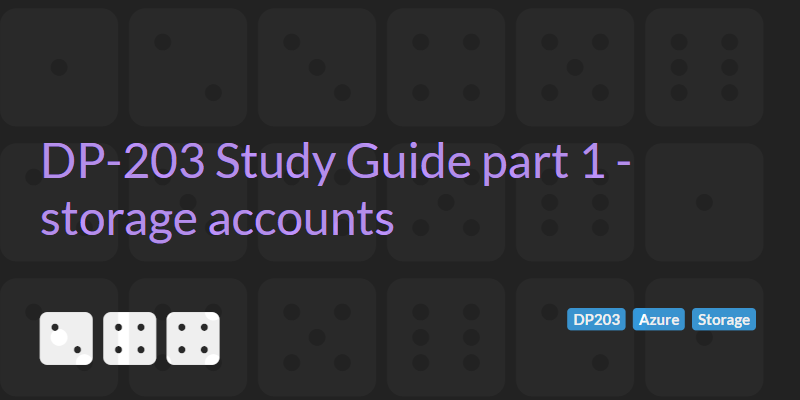
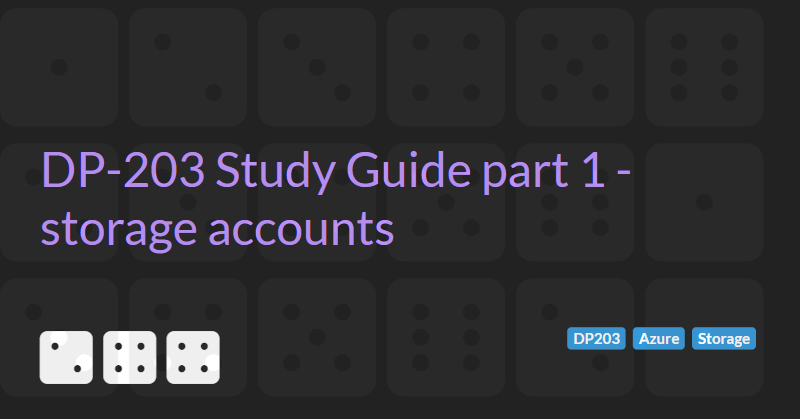
Set aspect ratio of hero images to 1.91:1. Fix links in list templates

diff --git a/Blog/all.html b/Blog/all.html
@@ -28,7 +28,7 @@
 
 <ul class="list-group list-group-flush">
     <li class="list-group-item">
-        <h4><a href=".//Azure/AZ-104-StudyNotes/Part6-VirtualMachines.html">AZ-105 Study Guide part 6 - Virtual Machines</a></h4>
+        <h4><a href="./Azure/AZ-104-StudyNotes/Part6-VirtualMachines.html">AZ-105 Study Guide part 6 - Virtual Machines</a></h4>
         <div>
             <span class="badge badge-info">AZ104</span>
             <span class="badge badge-info">Concepts</span>
@@ -40,7 +40,7 @@
             <p class="text-muted">Aug 17, 2022</p>
     </li>
     <li class="list-group-item">
-        <h4><a href=".//Azure/AZ-104-StudyNotes/Part5-StorageAccounts.html">AZ-104 Study Guide part 5 - Storage Accounts</a></h4>
+        <h4><a href="./Azure/AZ-104-StudyNotes/Part5-StorageAccounts.html">AZ-104 Study Guide part 5 - Storage Accounts</a></h4>
         <div>
             <span class="badge badge-info">AZ104</span>
             <span class="badge badge-info">Concepts</span>
@@ -52,7 +52,7 @@
             <p class="text-muted">Aug 10, 2022</p>
     </li>
     <li class="list-group-item">
-        <h4><a href=".//Azure/AZ-104-StudyNotes/Part1-Concepts.html">AZ-104 Study Guide part 1 - Concepts</a></h4>
+        <h4><a href="./Azure/AZ-104-StudyNotes/Part1-Concepts.html">AZ-104 Study Guide part 1 - Concepts</a></h4>
         <div>
             <span class="badge badge-info">AZ104</span>
             <span class="badge badge-info">Concepts</span>
@@ -63,7 +63,7 @@
             <p class="text-muted">Aug 09, 2022</p>
     </li>
     <li class="list-group-item">
-        <h4><a href=".//Azure/AZ-104-StudyNotes/Part2-PowershellAndCLI.html">AZ-104 Study Guide part 2 - PowerShell</a></h4>
+        <h4><a href="./Azure/AZ-104-StudyNotes/Part2-PowershellAndCLI.html">AZ-104 Study Guide part 2 - PowerShell</a></h4>
         <div>
             <span class="badge badge-info">AZ104</span>
             <span class="badge badge-info">Concepts</span>
@@ -76,7 +76,7 @@
             <p class="text-muted">Aug 09, 2022</p>
     </li>
     <li class="list-group-item">
-        <h4><a href=".//Azure/AZ-104-StudyNotes/Part3-ManagingAzureIdentitiesAndGovernace.html">AZ-104 Study Guide part 3 - Azure Identities and Governance</a></h4>
+        <h4><a href="./Azure/AZ-104-StudyNotes/Part3-ManagingAzureIdentitiesAndGovernace.html">AZ-104 Study Guide part 3 - Azure Identities and Governance</a></h4>
         <div>
             <span class="badge badge-info">AZ104</span>
             <span class="badge badge-info">Concepts</span>
@@ -88,7 +88,7 @@
             <p class="text-muted">Aug 09, 2022</p>
     </li>
     <li class="list-group-item">
-        <h4><a href=".//Azure/AZ-104-StudyNotes/Part4-ManagingSubscriptions.html">AZ-104 Study Guide part 4 - Managing Subscriptions</a></h4>
+        <h4><a href="./Azure/AZ-104-StudyNotes/Part4-ManagingSubscriptions.html">AZ-104 Study Guide part 4 - Managing Subscriptions</a></h4>
         <div>
             <span class="badge badge-info">AZ104</span>
             <span class="badge badge-info">Concepts</span>
@@ -100,7 +100,7 @@
             <p class="text-muted">Aug 09, 2022</p>
     </li>
     <li class="list-group-item">
-        <h4><a href=".//Dotnet/CreatingPackagesForNuGet.html">Creating Packages For NuGet.org</a></h4>
+        <h4><a href="./Dotnet/CreatingPackagesForNuGet.html">Creating Packages For NuGet.org</a></h4>
         <div>
             <span class="badge badge-info">NuGet</span>
             <span class="badge badge-info">dotnet</span>
@@ -111,7 +111,7 @@
             <p class="text-muted">Jun 01, 2022</p>
     </li>
     <li class="list-group-item">
-        <h4><a href=".//Azure/DP-203-StudyNotes/Pat2-CosmosDB.html">DP-203 Study Guide part 2 - Cosmos DB</a></h4>
+        <h4><a href="./Azure/DP-203-StudyNotes/Pat2-CosmosDB.html">DP-203 Study Guide part 2 - Cosmos DB</a></h4>
         <div>
             <span class="badge badge-info">DP203</span>
             <span class="badge badge-info">Cosmos</span>
@@ -123,7 +123,7 @@
             <p class="text-muted">May 16, 2022</p>
     </li>
     <li class="list-group-item">
-        <h4><a href=".//Azure/DP-203-StudyNotes/Part1-StorageAccounts.html">DP-203 Study Guide part 1 - storage accounts</a></h4>
+        <h4><a href="./Azure/DP-203-StudyNotes/Part1-StorageAccounts.html">DP-203 Study Guide part 1 - storage accounts</a></h4>
         <div>
             <span class="badge badge-info">DP203</span>
             <span class="badge badge-info">Azure</span>
@@ -135,7 +135,7 @@
             <p class="text-muted">Apr 20, 2022</p>
     </li>
     <li class="list-group-item">
-        <h4><a href=".//Meta/DeployingAStaticWebsiteToGitHubPages.html">Deploying to GitHub Pages</a></h4>
+        <h4><a href="./Meta/DeployingAStaticWebsiteToGitHubPages.html">Deploying to GitHub Pages</a></h4>
         <div>
             <span class="badge badge-info">Blogging</span>
             <span class="badge badge-info">GitHub</span>
@@ -148,7 +148,7 @@
             <p class="text-muted">Jan 05, 2022</p>
     </li>
     <li class="list-group-item">
-        <h4><a href=".//AgileTechnicalPractices/StylesOfTestDrivenDevelopment.html">Styles of Test Driven Development</a></h4>
+        <h4><a href="./AgileTechnicalPractices/StylesOfTestDrivenDevelopment.html">Styles of Test Driven Development</a></h4>
         <div>
             <span class="badge badge-info">TDD</span>
             <span class="badge badge-info">AgileTechnicalPractices</span>
@@ -159,7 +159,7 @@
             <p class="text-muted">Oct 06, 2021</p>
     </li>
     <li class="list-group-item">
-        <h4><a href=".//Meta/BloggingWithGithubAndMarkdown.html">Blogging with GitHub and Markdown</a></h4>
+        <h4><a href="./Meta/BloggingWithGithubAndMarkdown.html">Blogging with GitHub and Markdown</a></h4>
         <div>
             <span class="badge badge-info">Blogging</span>
             <span class="badge badge-info">Markdown</span>
@@ -172,7 +172,7 @@
             <p class="text-muted">May 28, 2021</p>
     </li>
     <li class="list-group-item">
-        <h4><a href=".//Meta/GeneratingAStaticWebsiteUsingMarkdown.html">Generating a Static Website Using Markdown</a></h4>
+        <h4><a href="./Meta/GeneratingAStaticWebsiteUsingMarkdown.html">Generating a Static Website Using Markdown</a></h4>
         <div>
             <span class="badge badge-info">Blogging</span>
             <span class="badge badge-info">Markdown</span>
@@ -185,7 +185,7 @@
             <p class="text-muted">May 28, 2021</p>
     </li>
     <li class="list-group-item">
-        <h4><a href=".//K8s/SettingUpMinikubeOnWindows10.html">Setting up minikube on Windows 10</a></h4>
+        <h4><a href="./K8s/SettingUpMinikubeOnWindows10.html">Setting up minikube on Windows 10</a></h4>
         <div>
             <span class="badge badge-info">minikube</span>
             <span class="badge badge-info">k8s</span>
@@ -196,7 +196,7 @@
             <p class="text-muted">Jun 26, 2019</p>
     </li>
     <li class="list-group-item">
-        <h4><a href=".//K8s/UsefulMinikubeCommands.html">Useful minikube commands</a></h4>
+        <h4><a href="./K8s/UsefulMinikubeCommands.html">Useful minikube commands</a></h4>
         <div>
             <span class="badge badge-info">minikube</span>
             <span class="badge badge-info">k8s</span>

diff --git a/Blog/index.html b/Blog/index.html
@@ -29,7 +29,7 @@
 
 <ul class="list-group list-group-flush">
     <li class="list-group-item">
-        <h4><a href=".//Azure/AZ-104-StudyNotes/Part6-VirtualMachines.html">AZ-105 Study Guide part 6 - Virtual Machines</a></h4>
+        <h4><a href="./Azure/AZ-104-StudyNotes/Part6-VirtualMachines.html">AZ-105 Study Guide part 6 - Virtual Machines</a></h4>
         <div>
             <span class="badge badge-info">AZ104</span>
             <span class="badge badge-info">Concepts</span>
@@ -41,7 +41,7 @@
             <p class="text-muted">Aug 17, 2022</p>
     </li>
     <li class="list-group-item">
-        <h4><a href=".//Azure/AZ-104-StudyNotes/Part5-StorageAccounts.html">AZ-104 Study Guide part 5 - Storage Accounts</a></h4>
+        <h4><a href="./Azure/AZ-104-StudyNotes/Part5-StorageAccounts.html">AZ-104 Study Guide part 5 - Storage Accounts</a></h4>
         <div>
             <span class="badge badge-info">AZ104</span>
             <span class="badge badge-info">Concepts</span>
@@ -53,7 +53,7 @@
             <p class="text-muted">Aug 10, 2022</p>
     </li>
     <li class="list-group-item">
-        <h4><a href=".//Azure/AZ-104-StudyNotes/Part1-Concepts.html">AZ-104 Study Guide part 1 - Concepts</a></h4>
+        <h4><a href="./Azure/AZ-104-StudyNotes/Part1-Concepts.html">AZ-104 Study Guide part 1 - Concepts</a></h4>
         <div>
             <span class="badge badge-info">AZ104</span>
             <span class="badge badge-info">Concepts</span>
@@ -64,7 +64,7 @@
             <p class="text-muted">Aug 09, 2022</p>
     </li>
     <li class="list-group-item">
-        <h4><a href=".//Azure/AZ-104-StudyNotes/Part2-PowershellAndCLI.html">AZ-104 Study Guide part 2 - PowerShell</a></h4>
+        <h4><a href="./Azure/AZ-104-StudyNotes/Part2-PowershellAndCLI.html">AZ-104 Study Guide part 2 - PowerShell</a></h4>
         <div>
             <span class="badge badge-info">AZ104</span>
             <span class="badge badge-info">Concepts</span>
@@ -77,7 +77,7 @@
             <p class="text-muted">Aug 09, 2022</p>
     </li>
     <li class="list-group-item">
-        <h4><a href=".//Azure/AZ-104-StudyNotes/Part3-ManagingAzureIdentitiesAndGovernace.html">AZ-104 Study Guide part 3 - Azure Identities and Governance</a></h4>
+        <h4><a href="./Azure/AZ-104-StudyNotes/Part3-ManagingAzureIdentitiesAndGovernace.html">AZ-104 Study Guide part 3 - Azure Identities and Governance</a></h4>
         <div>
             <span class="badge badge-info">AZ104</span>
             <span class="badge badge-info">Concepts</span>
@@ -89,7 +89,7 @@
             <p class="text-muted">Aug 09, 2022</p>
     </li>
     <li class="list-group-item">
-        <h4><a href=".//Azure/AZ-104-StudyNotes/Part4-ManagingSubscriptions.html">AZ-104 Study Guide part 4 - Managing Subscriptions</a></h4>
+        <h4><a href="./Azure/AZ-104-StudyNotes/Part4-ManagingSubscriptions.html">AZ-104 Study Guide part 4 - Managing Subscriptions</a></h4>
         <div>
             <span class="badge badge-info">AZ104</span>
             <span class="badge badge-info">Concepts</span>
@@ -101,7 +101,7 @@
             <p class="text-muted">Aug 09, 2022</p>
     </li>
     <li class="list-group-item">
-        <h4><a href=".//Dotnet/CreatingPackagesForNuGet.html">Creating Packages For NuGet.org</a></h4>
+        <h4><a href="./Dotnet/CreatingPackagesForNuGet.html">Creating Packages For NuGet.org</a></h4>
         <div>
             <span class="badge badge-info">NuGet</span>
             <span class="badge badge-info">dotnet</span>
@@ -112,7 +112,7 @@
             <p class="text-muted">Jun 01, 2022</p>
     </li>
     <li class="list-group-item">
-        <h4><a href=".//Azure/DP-203-StudyNotes/Pat2-CosmosDB.html">DP-203 Study Guide part 2 - Cosmos DB</a></h4>
+        <h4><a href="./Azure/DP-203-StudyNotes/Pat2-CosmosDB.html">DP-203 Study Guide part 2 - Cosmos DB</a></h4>
         <div>
             <span class="badge badge-info">DP203</span>
             <span class="badge badge-info">Cosmos</span>
@@ -124,7 +124,7 @@
             <p class="text-muted">May 16, 2022</p>
     </li>
     <li class="list-group-item">
-        <h4><a href=".//Azure/DP-203-StudyNotes/Part1-StorageAccounts.html">DP-203 Study Guide part 1 - storage accounts</a></h4>
+        <h4><a href="./Azure/DP-203-StudyNotes/Part1-StorageAccounts.html">DP-203 Study Guide part 1 - storage accounts</a></h4>
         <div>
             <span class="badge badge-info">DP203</span>
             <span class="badge badge-info">Azure</span>
@@ -136,7 +136,7 @@
             <p class="text-muted">Apr 20, 2022</p>
     </li>
     <li class="list-group-item">
-        <h4><a href=".//Meta/DeployingAStaticWebsiteToGitHubPages.html">Deploying to GitHub Pages</a></h4>
+        <h4><a href="./Meta/DeployingAStaticWebsiteToGitHubPages.html">Deploying to GitHub Pages</a></h4>
         <div>
             <span class="badge badge-info">Blogging</span>
             <span class="badge badge-info">GitHub</span>
